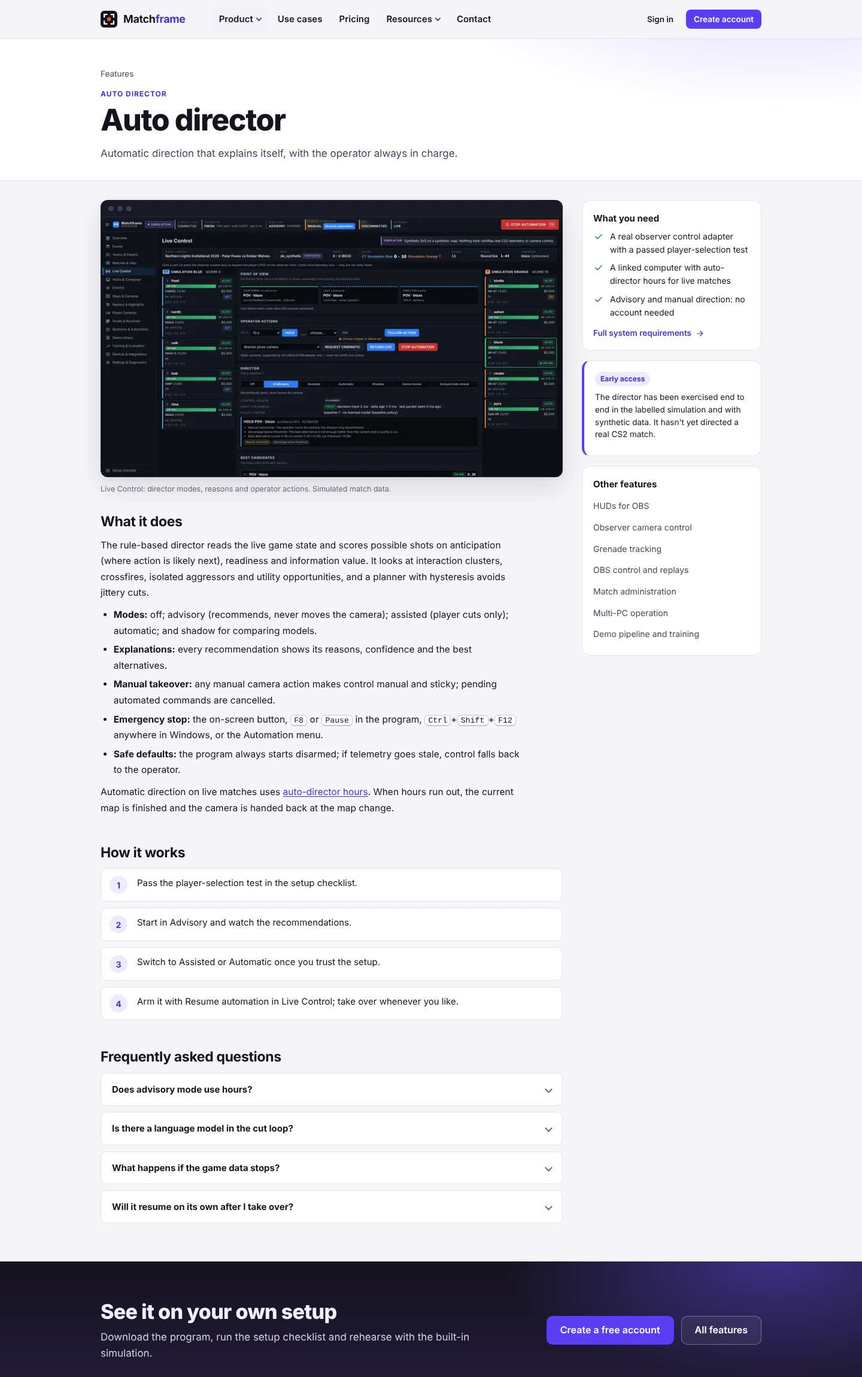
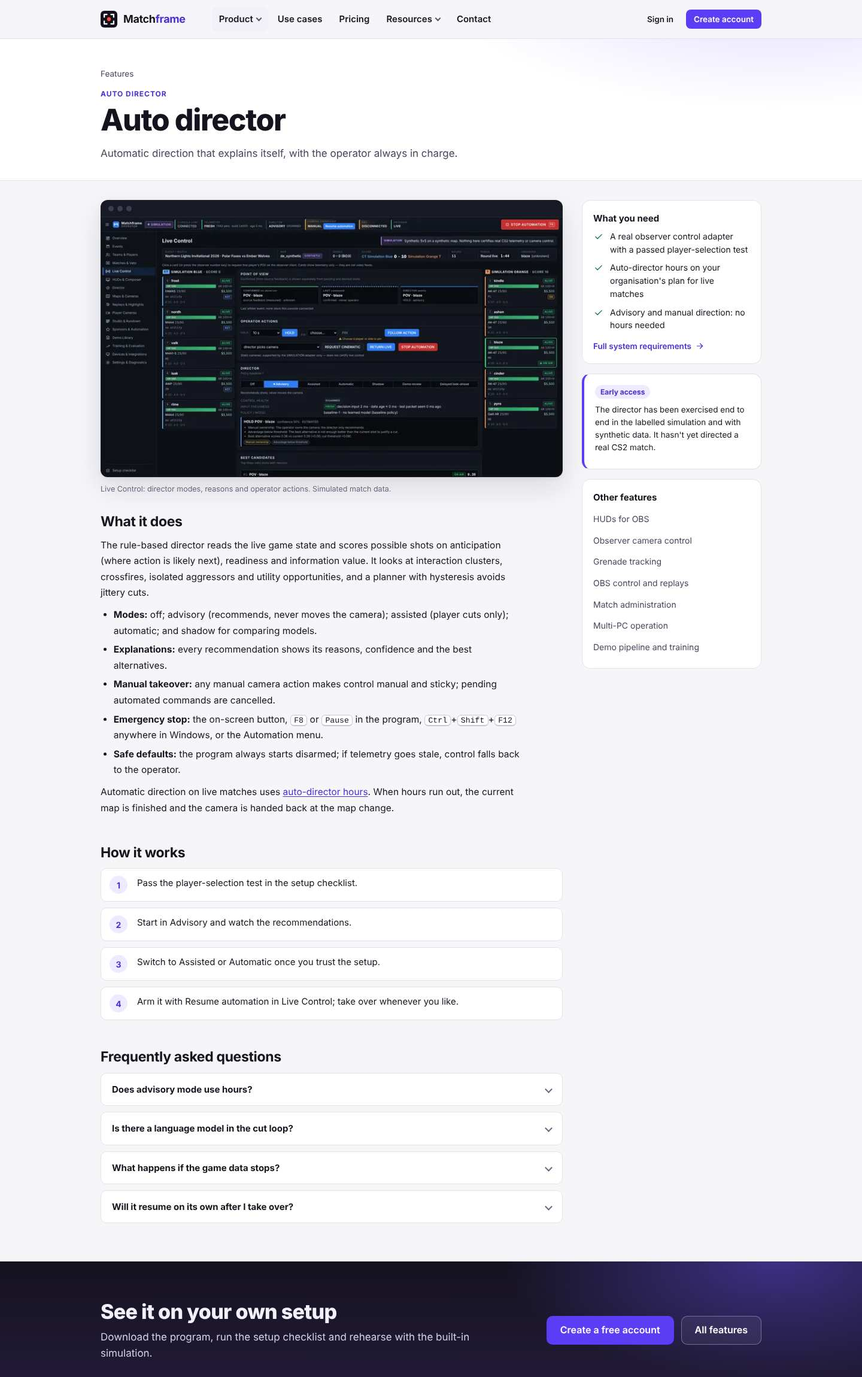
Website: describe program sign-in; staff sign-out covers computers
- Help, FAQ, How it works, home, download, computers, link page,
  requirements, use cases, features, security and the program EULA now
  describe signing in to the program with the website account (and the code
  option), offline use for 7 days, and why a computer is signed out.
- Changelog page: 0.1.1 entry.
- Staff "Sign out everywhere" explains that it also signs out the person's
  computers and reports how many.
- Screenshots regenerated with the walkthrough.

Claude-Session: https://claude.ai/code/session_01LaAUjAPvcaB4FzYKB4XiF4

Changed region(s): [[0.6875, 0.1852, 0.875, 0.4939], [0.7812, 0.463, 0.8125, 0.4939]]

diff --git a/apps/cloud-web/src/content/help.tsx b/apps/cloud-web/src/content/help.tsx
@@ -107,10 +107,10 @@ export const HELP_ARTICLES: HelpArticle[] = [
         <ol>
           <li>Run the installer and choose a folder. It installs for the current Windows user.</li>
           <li>
-            Start <strong>Matchframe Esports</strong>. It opens on Overview with the <strong>Setup</strong> checklist: detect CS2, write the Game State Integration config, connect OBS and add your HUD.
+            Start <strong>Matchframe Esports</strong> and <Link to="/help/linking-a-computer">sign in</Link> with your Matchframe email and password.
           </li>
           <li>
-            When you're ready for automatic direction, <Link to="/help/linking-a-computer">link the computer</Link> to your organisation.
+            The program opens on Overview with the <strong>Setup</strong> checklist: detect CS2, write the Game State Integration config, connect OBS and add your HUD.
           </li>
         </ol>
       </>
@@ -119,30 +119,34 @@ export const HELP_ARTICLES: HelpArticle[] = [
   {
     slug: "linking-a-computer",
     category: "start",
-    title: "Linking a computer",
-    summary: "Connect the program on a computer to your organisation's plan and hours.",
-    keywords: "link device code computer approve pair organisation slot limit account & hours",
+    title: "Signing in to the program",
+    summary: "Sign in to the program with your Matchframe email and password; it then uses your organisation's plan and hours.",
+    keywords: "sign in login password program computer link device code approve organisation slot limit account & hours offline signed out",
     body: (
       <>
-        <p>Linking tells Matchframe which organisation's plan and auto-director hours a computer uses. You only need it for automatic direction on live matches; everything else works without linking.</p>
-        <h2>Link a computer</h2>
+        <p>The program opens with a sign-in screen. Signing in connects that computer to your organisation's plan and auto-director hours. It's the same account as this website.</p>
+        <h2>Sign in</h2>
         <ol>
-          <li>
-            In the program, open <strong>Account &amp; Hours → Link this computer</strong>. It shows a code like <code>BCDF-GHJK</code> and opens this website.
-          </li>
-          <li>
-            Sign in if asked. On the <Link to="/link">link page</Link>, check the code and the computer's name.
-          </li>
-          <li>
-            Choose the organisation and select <strong>Approve and link</strong>. The program picks up the link within a few seconds.
-          </li>
+          <li>Start the program. Enter the email and password you use on this website and select <strong>Sign in</strong>.</li>
+          <li>If you belong to more than one organisation, choose which one this computer is for.</li>
+          <li>The program opens. <strong>Account &amp; Hours</strong> shows who it is signed in as, the plan and the hours left.</li>
         </ol>
-        <p>Codes expire after 10 minutes. If yours expired, start again in the program to get a new one.</p>
-        <h2>Who can link computers</h2>
-        <p>Owners, admins and members can link computers once their email address is verified. Billing members can't.</p>
-        <h2>"This organisation has no free computer slot"</h2>
+        <p>Your password is sent to Matchframe once and never stored on the computer. Confirm your email address before signing in.</p>
+        <h2>Sign in with a code instead</h2>
         <p>
-          Each plan allows a number of linked computers. <Link to="/help/unlinking-a-computer">Unlink a computer</Link> you no longer use, or move to a plan with more computers on the Billing &amp; Subscription page.
+          On the sign-in screen choose <strong>Sign in with a code from the website</strong>. The program shows a code like <code>BCDF-GHJK</code>. Open the <Link to="/link">link page</Link> on this website, check the code and the computer's name, choose the organisation and select <strong>Approve and link</strong>. Codes expire after 10 minutes.
+        </p>
+        <h2>Working offline</h2>
+        <p>After signing in, the program works without internet for up to 7 days after it last reached Matchframe. When that period ends it asks you to connect once.</p>
+        <h2>Signed out?</h2>
+        <p>
+          A computer is signed out when the account's password is changed or reset, the account is disabled, its person leaves the organisation, or someone <Link to="/help/unlinking-a-computer">unlinks the computer</Link>. A program that is already open keeps running and shows a notice; it asks you to sign in the next time it opens.
+        </p>
+        <h2>Who can sign in a computer</h2>
+        <p>Owners, admins and members, once their email address is confirmed. Billing members can't.</p>
+        <h2>"This plan allows 1 signed-in computer"</h2>
+        <p>
+          Each plan allows a number of signed-in production computers. <Link to="/help/unlinking-a-computer">Sign out a computer</Link> you no longer use, or move to a plan with more computers on the Billing &amp; Subscription page. Extra operator positions that connect to the production computer from File → Connection settings don't need their own sign-in.
         </p>
       </>
     ),

diff --git a/apps/cloud-web/src/content/features.tsx b/apps/cloud-web/src/content/features.tsx
@@ -62,10 +62,10 @@ export const FEATURES: Feature[] = [
       </>
     ),
     how: ["Open HUDs & Composer, choose a preset and variant, then Publish.", "Copy the output's browser-source URL.", "Add it to OBS as a 1920×1080 Browser Source (or let the program provision it).", "Activate the match so the HUD shows the teams, players and series."],
-    needs: ["OBS Studio 30 or later", "The program on the production computer", "No account or hours"],
+    needs: ["OBS Studio 30 or later", "The program on the production computer", "A free account; no hours needed"],
     status: <>HUDs are rendered and checked in Chromium, the browser engine OBS uses for browser sources. They haven't yet been used in a Windows OBS production.</>,
     faqs: [
-      { q: "Do HUDs use auto-director hours or need an account?", a: <p>No. HUDs work offline without an account, on every plan.</p> },
+      { q: "Do HUDs use auto-director hours?", a: <p>No. HUDs work on every plan, including Free, and keep working offline for up to seven days after the program last checked in.</p> },
       { q: "Can I design my own HUD?", a: <p>Yes. Build a HUD package with the HUD SDK and import it in HUDs &amp; Composer. It gets the same draft, publish and rollback flow as the built-in presets.</p> },
       { q: "Are the player cards video feeds?", a: <p>No. Player cards are graphics driven by game data. Player cameras are routed separately through OBS, with the player's consent.</p> },
       { q: "Can a delayed output leak what's about to happen?", a: <p>Delayed outputs read from a delay buffer and show nothing until it has filled, so they never show information ahead of the delayed programme.</p> },
@@ -106,7 +106,7 @@ export const FEATURES: Feature[] = [
       </>
     ),
     how: ["Pass the player-selection test in the setup checklist.", "Start in Advisory and watch the recommendations.", "Switch to Assisted or Automatic once you trust the setup.", "Arm it with Resume automation in Live Control; take over whenever you like."],
-    needs: ["A real observer control adapter with a passed player-selection test", "A linked computer with auto-director hours for live matches", "Advisory and manual direction: no account needed"],
+    needs: ["A real observer control adapter with a passed player-selection test", "Auto-director hours on your organisation's plan for live matches", "Advisory and manual direction: no hours needed"],
     status: <>The director has been exercised end to end in the labelled simulation and with synthetic data. It hasn't yet directed a real CS2 match.</>,
     faqs: [
       { q: "Does advisory mode use hours?", a: <p>No. Hours are only used while automation actually controls the camera on a live match. Advisory, manual direction and the simulation are free.</p> },
@@ -211,7 +211,7 @@ export const FEATURES: Feature[] = [
     faqs: [
       { q: "Can I use a separate replay system?", a: <p>A bridge for an external replay tool is designed, but that integration isn't available yet. The OBS replay buffer is the supported replay path today.</p> },
       { q: "Are multiple replay angles supported?", a: <p>Replays currently use the programme angle captured by OBS. Additional angles are planned.</p> },
-      { q: "Do I need an account for OBS control?", a: <p>No. OBS control and replays work offline without an account.</p> },
+      { q: "Do OBS control and replays use hours?", a: <p>No. They work on every plan and offline for up to seven days after the program last checked in.</p> },
     ],
   },
   {
@@ -236,7 +236,7 @@ export const FEATURES: Feature[] = [
       </>
     ),
     how: ["Create teams and players, or import them.", "Create the match and its format.", "Send captain links and run the veto.", "Activate the match so HUDs show the teams, players and series."],
-    needs: ["The program only: no account or hours"],
+    needs: ["The program only: no hours needed"],
     faqs: [
       { q: "How secure are captain links?", a: <p>Each link is a token scoped to one match and one team. Captains only see veto information and can only act on their own turns. Links can be revoked at any time.</p> },
       { q: "Can sponsors appear during a fight?", a: <p>No. Sponsor slots use safe windows that avoid live fights, and each display is logged when the HUD acknowledges it.</p> },

diff --git a/apps/cloud-web/src/pages/site/HowItWorks.tsx b/apps/cloud-web/src/pages/site/HowItWorks.tsx
@@ -8,7 +8,7 @@ import { useSession } from "../../state/session.tsx";
 
 const FLOW: { icon: IconName; title: string; text: string }[] = [
   { icon: "download", title: "Install", text: "Download the Windows installer from your account and run the setup checklist in the program." },
-  { icon: "link", title: "Link the computer", text: "Account & Hours → Link this computer, then approve the code on this website." },
+  { icon: "link", title: "Sign in", text: "Start the program and sign in with your Matchframe email and password." },
   { icon: "card", title: "Buy or receive hours", text: "Plans include auto-director hours each period, and hour packs add more at any time." },
   { icon: "director", title: "Arm automation", text: "Resume automation in Live Control. Hours are used only while it drives the camera." },
 ];
@@ -19,7 +19,7 @@ const OFFLINE: [string, ReactNode, ReactNode][] = [
   ["OBS control and replays", "Yes", "Yes"],
   ["Match, veto and sponsor administration", "Yes", "Yes"],
   ["Simulation and demo pipeline", "Yes", "Yes"],
-  ["Automatic direction on live matches", "No: needs a linked computer with hours", "Yes, for up to 7 days after the last licence refresh"],
+  ["Automatic direction on live matches", "Uses your plan's auto-director hours", "Yes, for up to 7 days after the last licence refresh"],
 ];
 
 const SETUP: { id: string; title: string; where: string; body: ReactNode }[] = [
@@ -61,11 +61,11 @@ const SETUP: { id: string; title: string; where: string; body: ReactNode }[] = [
   },
   {
     id: "link",
-    title: "Link the computer",
-    where: "In the program, then on this website",
+    title: "Sign in to the program",
+    where: "In the program",
     body: (
       <p>
-        Open <strong>Account &amp; Hours → Link this computer</strong>, enter the code at <Link to="/link">/link</Link>, choose your organisation and approve. <Link to="/help/linking-a-computer">More help</Link>
+        Start the program and sign in with the same email and password as this website (or choose <strong>Sign in with a code from the website</strong> and approve it at <Link to="/link">/link</Link>). If you're in several organisations, pick the one this computer is for. <Link to="/help/linking-a-computer">More help</Link>
       </p>
     ),
   },
@@ -193,13 +193,13 @@ export function HowItWorks() {
 
       <section className="section section-alt" id="offline" aria-labelledby="offline-title">
         <div className="wrap">
-          <SectionHead id="offline-title" eyebrow="Offline-first" title="What works offline and without an account" lead="Your broadcast never depends on this website. A linked computer refreshes its signed licence every 15 minutes while online and keeps it valid offline for 7 days." center />
+          <SectionHead id="offline-title" eyebrow="Offline-first" title="What works offline" lead="Your broadcast never depends on this website. The program signs in once, refreshes its signed licence every 15 minutes while online, and keeps working offline for 7 days. Being signed out never stops a show that is already running." center />
           <div className="table-scroll" role="region" aria-label="What works offline" tabIndex={0}>
             <table className="cmp-table">
               <thead>
                 <tr>
                   <th scope="col">Feature</th>
-                  <th scope="col">Without an account</th>
+                  <th scope="col">On every plan</th>
                   <th scope="col">Offline</th>
                 </tr>
               </thead>

diff --git a/apps/cloud-web/src/content/faq.tsx b/apps/cloud-web/src/content/faq.tsx
@@ -59,7 +59,7 @@ export const FAQ: FaqItem[] = [
     q: "Do I need an account or an internet connection to use the program?",
     a: (
       <p>
-        Not for most of it. HUDs, manual and advisory direction, replays, match administration and the built-in simulation work offline without an account. Only automatic direction on live matches needs a linked computer with auto-director hours left, and a fetched licence keeps working offline for up to seven days. See <Link to="/how-it-works#offline">what works offline</Link>.
+        You need a free account: the program opens with a sign-in screen, and you sign in with the same email and password as this website. After that it works offline for up to seven days after each check, so a LAN without internet is fine. The Free plan covers HUDs, manual and advisory direction, replays, match administration and the simulation; automatic direction on live matches uses auto-director hours. See <Link to="/how-it-works#offline">what works offline</Link>.
       </p>
     ),
   },
@@ -363,15 +363,31 @@ export const FAQ: FaqItem[] = [
     q: "Automation won't arm.",
     a: (
       <p>
-        The program says why. Common reasons: the computer isn't linked, the organisation has no hours left, the plan doesn't include automatic direction, the player-selection test hasn't passed for this game build, or the data is simulated. Check Account &amp; Hours in the program and your <Link to="/dashboard">dashboard</Link>.
+        The program says why. Common reasons: the program was signed out on the website, the organisation has no hours left, the plan doesn't include automatic direction, the player-selection test hasn't passed for this game build, or the data is simulated. Check Account &amp; Hours in the program and your <Link to="/dashboard">dashboard</Link>.
       </p>
     ),
   },
   {
+    id: "sign-in-program",
+    category: "troubleshooting",
+    q: "I can't sign in to the program.",
+    a: (
+      <p>
+        Use the same email and password as this website, and confirm your email address first (the program can't sign in before that). If you belong to several organisations, the program asks which one the computer is for. "This plan allows 1 signed-in computer" means the organisation has no free computer slot: sign out an old computer on the Computers page or move to a larger plan. Forgot your password? <Link to="/forgot-password">Reset it here</Link>, then sign in again.
+      </p>
+    ),
+  },
+  {
+    id: "signed-out",
+    category: "troubleshooting",
+    q: "Why was the program signed out?",
+    a: <p>A computer is signed out when the account's password is changed or reset, the account is disabled, its person leaves the organisation, or the computer is unlinked on the Computers page. A program that is already open keeps running and shows a notice; it asks you to sign in the next time it opens.</p>,
+  },
+  {
     id: "link-code",
     category: "troubleshooting",
-    q: "My link code doesn't work.",
-    a: <p>Codes expire after 10 minutes and work once. Start linking again in the program to get a new code. If the organisation has no free computer slot, unlink an old computer or move to a larger plan.</p>,
+    q: "My sign-in code doesn't work.",
+    a: <p>Codes (the "sign in with a code" option) expire after 10 minutes and work once. Get a new code in the program. If the organisation has no free computer slot, sign out an old computer or move to a larger plan.</p>,
   },
   {
     id: "no-email",

diff --git a/apps/cloud-web/src/pages/LinkComputer.tsx b/apps/cloud-web/src/pages/LinkComputer.tsx
@@ -45,7 +45,7 @@ function CodeEntry({ initial = "", autoFocus = false }: { initial?: string; auto
         maxLength={9}
         className="code-input"
         error={error}
-        hint="In the program open Account & Hours → Link this computer to see it. Codes expire after 10 minutes."
+        hint="On the program's sign-in screen choose Sign in with a code from the website to see it. Codes expire after 10 minutes."
         autoFocus={autoFocus}
       />
       <Button type="submit" variant="primary">
@@ -109,7 +109,7 @@ function Pending({ code, preview, orgs, verified, onOutcome, onInvalid }: { code
     }
   }
 
-  const approveReason = expired ? "This code has expired. Start linking again in the program." : !verified ? "Verify your email address before linking computers." : linkable.length === 0 ? "None of your organisations lets your role link computers." : !orgId ? "Choose an organisation first." : null;
+  const approveReason = expired ? "This code has expired. Get a new code in the program." : !verified ? "Verify your email address before linking computers." : linkable.length === 0 ? "None of your organisations lets your role link computers." : !orgId ? "Choose an organisation first." : null;
 
   return (
     <Card title="A computer wants to link to your account">
@@ -276,7 +276,7 @@ export function LinkComputer() {
         <Card title="Enter the code">
           <ol className="plain-steps">
             <li>
-              In the Matchframe program open <strong>Account &amp; Hours → Link this computer</strong>.
+              On the Matchframe program's sign-in screen choose <strong>Sign in with a code from the website</strong>.
             </li>
             <li>Type the code it shows below (or click the link the program opens, which fills it in).</li>
           </ol>

diff --git a/apps/cloud-web/src/pages/admin/UserDetail.tsx b/apps/cloud-web/src/pages/admin/UserDetail.tsx
@@ -321,7 +321,7 @@ export function AdminUserDetail({ userId }: { userId: string }) {
               <div className="action-item">
                 <div>
                   <p className="strong">Sign out everywhere</p>
-                  <p className="small muted">End every session of this account.</p>
+                  <p className="small muted">End every browser session and sign out the computers this account signed in.</p>
                 </div>
                 <Button size="sm" variant="ghost" className="btn-danger-text" onClick={() => setDialog("signout")} disabledReason={d.sessions.length === 0 ? "No active sessions." : null}>
                   Sign out everywhere
@@ -391,13 +391,14 @@ export function AdminUserDetail({ userId }: { userId: string }) {
       {dialog === "signout" && (
         <ConfirmDialog
           title="Sign out everywhere?"
-          description={`Every browser signed in as ${u.email} is signed out. They can sign in again straight away.`}
+          description={`Every browser and every Matchframe program signed in as ${u.email} is signed out. A program that is open keeps running until it is closed. They can sign in again straight away.`}
           confirmLabel="Sign out everywhere"
           onConfirm={() => api.adminSignOutUser(u.id)}
           onClose={close}
           onDone={(r) => {
             const n = (r as { revoked?: number } | undefined)?.revoked ?? 0;
-            done(`Signed out ${n} ${n === 1 ? "session" : "sessions"}.`);
+            const c = (r as { computers?: number } | undefined)?.computers ?? 0;
+            done(`Signed out ${n} ${n === 1 ? "session" : "sessions"}${c ? ` and ${c} ${c === 1 ? "computer" : "computers"}` : ""}.`);
           }}
         />
       )}

diff --git a/apps/cloud-web/src/content/legal.tsx b/apps/cloud-web/src/content/legal.tsx
@@ -395,7 +395,7 @@ const eula: LegalDoc = {
       </ul>
 
       <h2>3. Online features</h2>
-      <p>Most of the Program works offline without an account. Automatic direction on live matches requires the computer to be linked to an organisation with auto-director hours. A linked Program periodically contacts our servers to refresh its signed licence and upload usage records (when and for how long automatic direction ran, with the map and match label). A licence remains usable offline for a limited period after it was issued. When hours run out, automation already running continues to the end of the current map.</p>
+      <p>The Program requires you to sign in with a Matchframe account when it starts and then works offline for a limited period after each check. Automatic direction on live matches uses your organisation's auto-director hours. A signed-in Program periodically contacts our servers to refresh its signed licence and upload usage records (when and for how long automatic direction ran, with the map and match label). A licence remains usable offline for a limited period after it was issued. When hours run out, automation already running continues to the end of the current map.</p>
 
       <h2>4. Your responsibilities</h2>
       <p>You're responsible for your production setup and for monitoring your broadcast. Automatic camera control is only available after the in-program setup tests pass, and depends on third-party software and game builds outside our control. Use the manual takeover and emergency stop whenever needed.</p>

diff --git a/apps/cloud-web/src/pages/site/Changelog.tsx b/apps/cloud-web/src/pages/site/Changelog.tsx
@@ -11,6 +11,29 @@ interface Release {
 
 const RELEASES: Release[] = [
   {
+    version: "0.1.1",
+    title: "Sign in to the program",
+    summary: "The program now has its own sign-in screen, using the same account as this website.",
+    sections: [
+      {
+        heading: "The program",
+        items: [
+          "Sign in with your Matchframe email and password when the program opens, or with a code approved on this website. Accounts in several organisations choose which one the computer is for.",
+          "Works offline for up to 7 days after each check; a program that is already open is never locked when it is signed out on the website.",
+          "Account & Hours shows who the program is signed in as, with Sign out.",
+          "Builds are pinned to this website's address and licence keys, so there is nothing to configure.",
+        ],
+      },
+      {
+        heading: "The website",
+        items: [
+          "Changing or resetting your password, being removed from an organisation or a disabled account signs that person's computers out.",
+          "Public product pages, FAQ, help centre, legal documents and a staff console for user management.",
+        ],
+      },
+    ],
+  },
+  {
     version: "0.1.0",
     title: "First release",
     summary: "The first public version of the Matchframe program for Windows and of this website.",

diff --git a/apps/cloud-web/src/content/useCases.tsx b/apps/cloud-web/src/content/useCases.tsx
@@ -56,7 +56,7 @@ export const USE_CASES: UseCase[] = [
     helps: [
       "Built-in HUD presets work out of the box as OBS browser sources.",
       "Advisory mode suggests shots; assisted mode can take over player cuts while you cast.",
-      "Everything except automatic direction on live matches works offline without an account.",
+      "Sign in once with a free account; the program then works offline for up to seven days after each check.",
       "The Free plan includes a few auto-director hours each month to try automation.",
     ],
     setup: "A single Windows PC running the CS2 observer client, OBS and Matchframe together.",
@@ -72,7 +72,7 @@ export const USE_CASES: UseCase[] = [
     icon: "network",
     intro: "Produce on site on a local network, where internet access may be limited and every computer has a job.",
     helps: [
-      "The program works on the local network; only linking, licence refresh and usage upload need the internet.",
+      "The program works on the local network; only signing in, licence refresh and usage upload need the internet.",
       "A fetched licence keeps automatic direction available offline for up to seven days.",
       "Replay, graphics and producer positions connect to the production computer with their own tokens.",
       "Emergency stop works from anywhere in Windows on the production PC.",

diff --git a/apps/cloud-web/src/pages/site/Security.tsx b/apps/cloud-web/src/pages/site/Security.tsx
@@ -7,7 +7,7 @@ const STORED: [string, string][] = [
   ["Account", "Your name, email address, a salted password hash, whether your email is verified, and when you signed up and last signed in."],
   ["Sessions", "For each signed-in browser: when it was created and last used, its user agent and IP address, so you can review and end sessions."],
   ["Organisations", "Organisation names, members and their roles, pending invitations and the audit trail of changes."],
-  ["Linked computers", "The computer name, platform and program version you approved, when it was linked and last seen. Its access token is stored only as a hash."],
+  ["Signed-in computers", "The computer name, platform and program version, who signed it in, when and when it was last seen. Its access token is stored only as a hash; your password is never stored on the computer."],
   ["Auto-director usage", "When and for how long automatic direction ran on each computer, with the map and match label sent by the program."],
   ["Billing", "Your plan, subscription status, hour credits and a reference to your Stripe customer and invoices. No card numbers."],
   ["Support", "Messages you send through the contact form and the emails we send you (recipient and subject, delivery state)."],

diff --git a/apps/cloud-web/src/pages/org/Computers.tsx b/apps/cloud-web/src/pages/org/Computers.tsx
@@ -41,10 +41,10 @@ export function Computers({ scope }: { scope: OrgScope }) {
               Install the Matchframe program from the <Link to="/download">download page</Link>.
             </li>
             <li>
-              In the program open <strong>Account &amp; Hours → Link this computer</strong>. It shows a code and opens this website.
+              Start the program and sign in with your Matchframe email and password. If you're in several organisations, choose this one.
             </li>
             <li>
-              Enter the code at <Link to="/link">/link</Link>, choose this organisation and approve. The program finishes linking within a few seconds.
+              Or choose <strong>Sign in with a code from the website</strong> in the program, enter the code at <Link to="/link">/link</Link>, choose this organisation and approve.
             </li>
           </ol>
           <p className="small muted">Unlinking stops that computer's credential immediately and frees its slot. Plan details it already downloaded expire on their own schedule.</p>

diff --git a/apps/cloud-web/src/api/index.ts b/apps/cloud-web/src/api/index.ts
@@ -104,7 +104,7 @@ export const api = {
   adminVerifyEmail: (id: string) => client.post<{ ok: true }>(`/v1/admin/users/${seg(id)}/verify-email`),
   adminResendVerification: (id: string) => client.post<{ sent: boolean; alreadyVerified?: boolean }>(`/v1/admin/users/${seg(id)}/resend-verification`),
   adminPasswordReset: (id: string) => client.post<{ sent: true }>(`/v1/admin/users/${seg(id)}/password-reset`),
-  adminSignOutUser: (id: string) => client.post<{ revoked: number }>(`/v1/admin/users/${seg(id)}/sign-out`),
+  adminSignOutUser: (id: string) => client.post<{ revoked: number; computers?: number }>(`/v1/admin/users/${seg(id)}/sign-out`),
   adminSetStaffRole: (id: string, role: StaffRole | null) => client.put<{ ok: true; staffRole: StaffRole | null }>(`/v1/admin/users/${seg(id)}/staff-role`, { role }),
   adminDisableUser: (id: string, reason: string) => client.post<{ ok: true }>(`/v1/admin/users/${seg(id)}/disable`, { reason }),
   adminEnableUser: (id: string) => client.post<{ ok: true }>(`/v1/admin/users/${seg(id)}/enable`),
